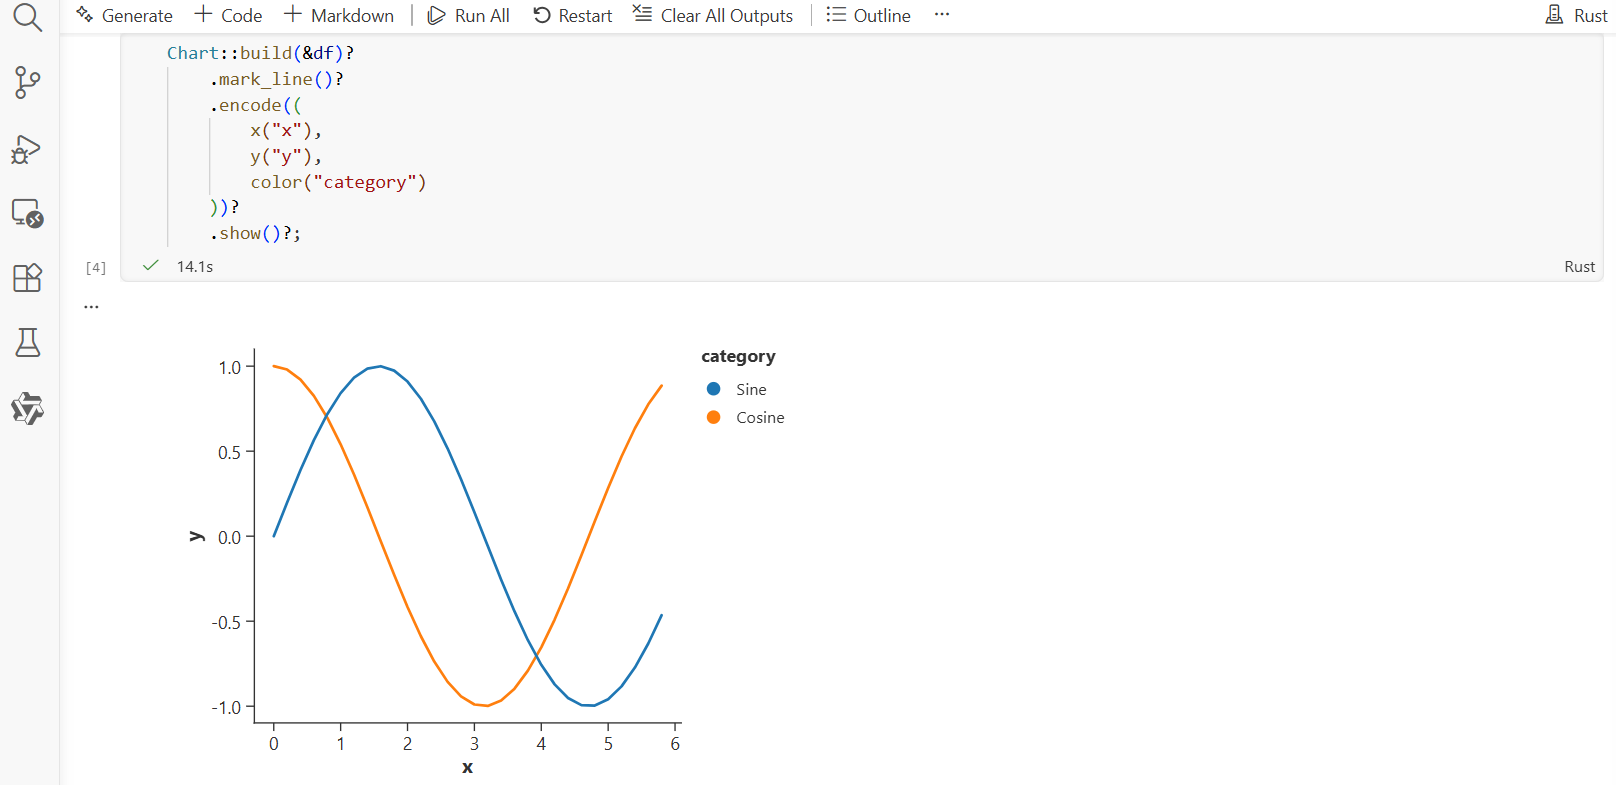
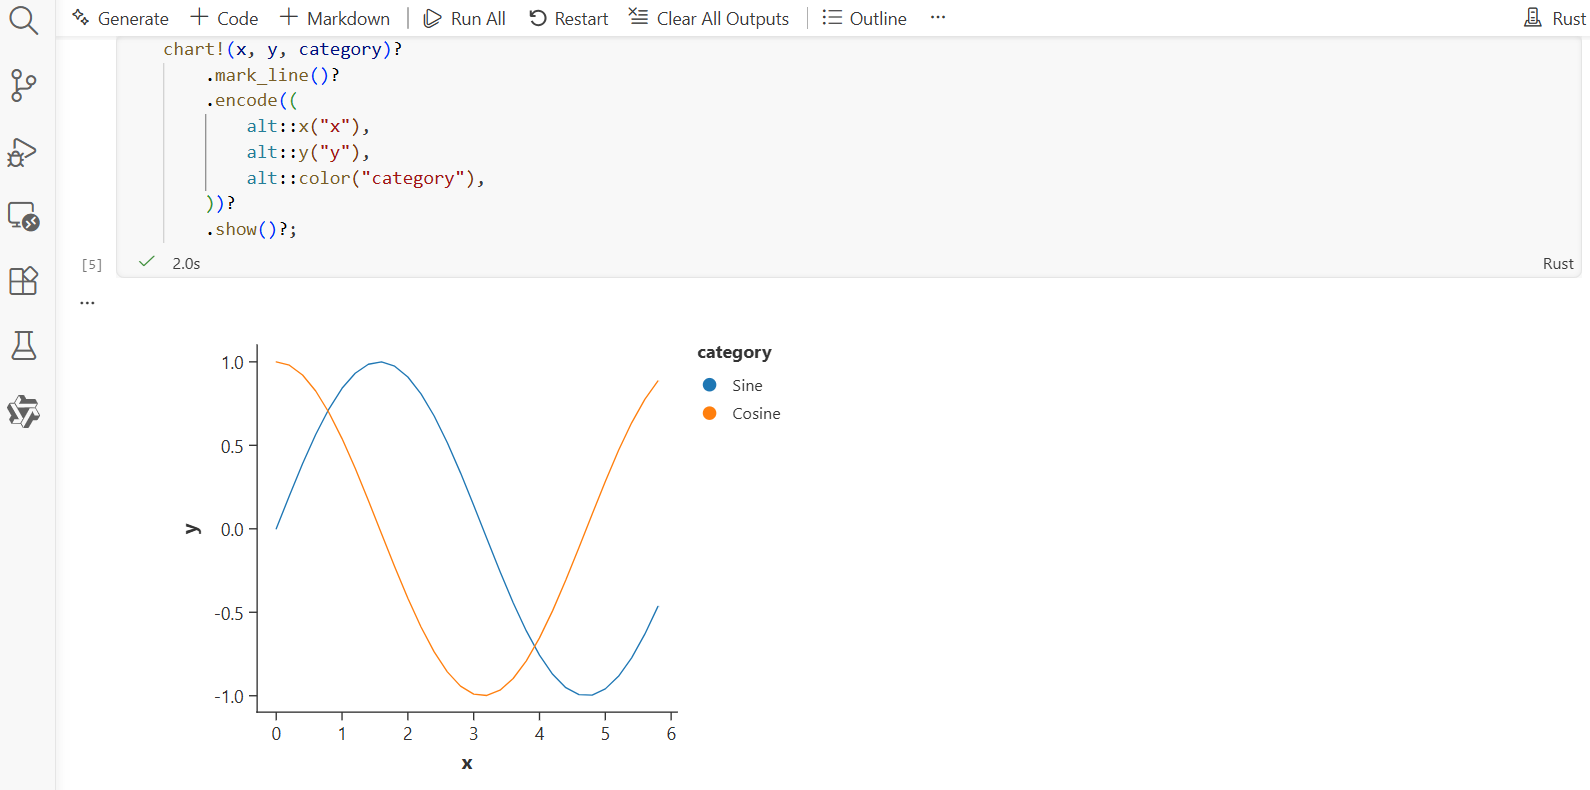
into column vector

diff --git a/src/core/data.rs b/src/core/data.rs
@@ -1125,6 +1125,36 @@ where
     }
 }
 
+impl<Item, const N: usize> From<&[Item; N]> for ColumnVector
+where
+    Vec<Item>: Into<ColumnVector>,
+    Item: Clone,
+{
+    fn from(arr: &[Item; N]) -> Self {
+        arr.to_vec().into()
+    }
+}
+
+impl<Item> From<&[Item]> for ColumnVector
+where
+    Vec<Item>: Into<ColumnVector>,
+    Item: Clone,
+{
+    fn from(slice: &[Item]) -> Self {
+        slice.to_vec().into()
+    }
+}
+
+impl<Item> From<&Vec<Item>> for ColumnVector
+where
+    Vec<Item>: Into<ColumnVector>,
+    Item: Clone,
+{
+    fn from(v: &Vec<Item>) -> Self {
+        v.as_slice().into()
+    }
+}
+
 /// Internal trait to bridge ColumnVector and concrete Rust types.
 /// Get data from a column vector.
 pub trait FromColumnVector: Sized {

diff --git a/examples/weight_loss_curve.rs b/examples/weight_loss_curve.rs
@@ -1,6 +1,8 @@
 use charton::prelude::*;
 use std::error::Error;
 
+// The data is obtained from paper "Once-Weekly Semaglutide in Adults with Overweight or Obesity"
+// using [webplotdigitizer](https://automeris.io/).
 fn main() -> Result<(), Box<dyn Error>> {
     // Placebo group data (control group)
     let ds_placebo = vec![